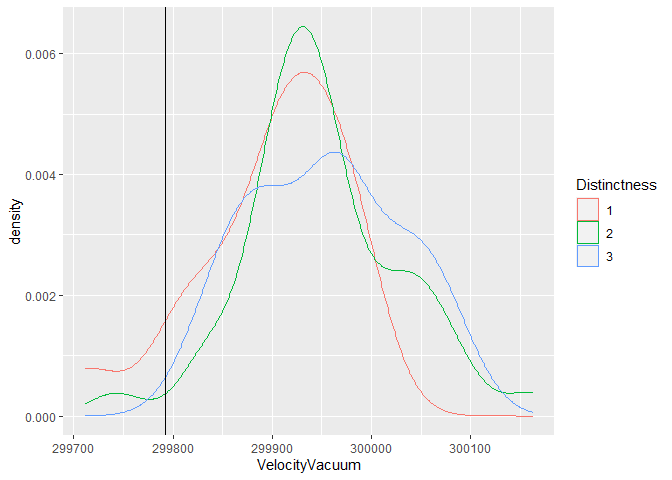
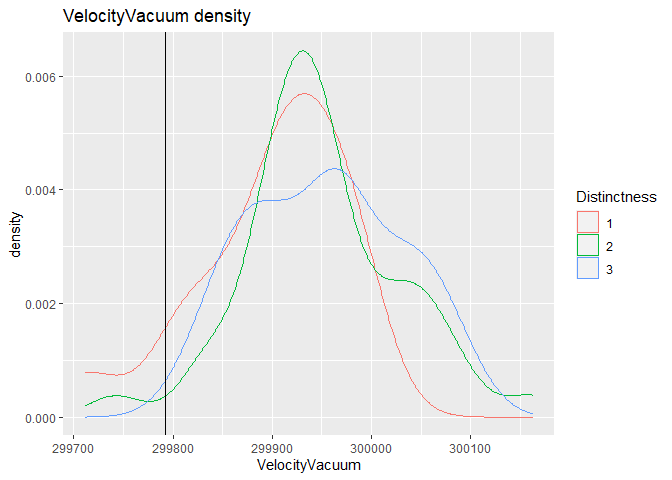
Update michelson with the correct files

diff --git a/c02-michelson-assignment.md b/c02-michelson-assignment.md
@@ -134,8 +134,7 @@ those of Michelson *exactly*; why might this be?
 df_q1 <-
   df_michelson %>%
   group_by(Distinctness) %>%
-  summarize(n = n(), MeanVelocity = mean(Velocity)) %>%
-  ungroup()
+  summarize(n = n(), MeanVelocity = mean(Velocity))
 ```
 
     ## `summarise()` ungrouping output (override with `.groups` argument)
@@ -151,6 +150,31 @@ df_q1 %>%
 | 3            | 46 |     299861.7 |
 | 2            | 39 |     299858.5 |
 | 1            | 15 |     299808.0 |
+
+``` r
+df_michelson %>%
+  ggplot() +
+  labs(title = "Velocity vs Distinctness", caption = "black line: LIGHTSPEED_MICHELSON; blue line: Michelson's adjusted lightspeed; green line: actual light speed in vacuum") +
+  ylab("Velocity (km/s)") +
+  geom_boxplot(mapping = aes(x = Distinctness, y = Velocity)) +
+  geom_hline(yintercept = LIGHTSPEED_MICHELSON) +
+  geom_hline(yintercept = 299852.4, color = "blue") +
+  geom_hline(yintercept = LIGHTSPEED_VACUUM, color="green")
+```
+
+![](c02-michelson-assignment_files/figure-gfm/q1-task-1.png)<!-- -->
+
+``` r
+df_michelson %>%
+  ggplot() +
+  ggtitle("All velocity measurements") +
+  labs(caption = "green line: actual light speed in vacuum") +
+  xlab("Velocity (km/s)") +
+  geom_boxplot(mapping = aes(x = Velocity, y = "all samples")) +
+  geom_vline(xintercept = LIGHTSPEED_VACUUM, color="green")
+```
+
+![](c02-michelson-assignment_files/figure-gfm/q1-task-2.png)<!-- -->
 
 **Observations**: Michelson’s observations in that table are rounded to
 the nearest 10. Their average cannot be more precise than the original
@@ -172,24 +196,7 @@ adjustment to `Velocity`. Assign this new dataframe to `df_q2`.
 df_q2 <-
   df_michelson %>%
   mutate(VelocityVacuum = Velocity + 92)
-
-df_q2
 ```
-
-    ## # A tibble: 100 x 5
-    ##    Date                Distinctness  Temp Velocity VelocityVacuum
-    ##    <dttm>              <fct>        <dbl>    <dbl>          <dbl>
-    ##  1 1879-06-05 00:00:00 3               76   299850         299942
-    ##  2 1879-06-07 00:00:00 2               72   299740         299832
-    ##  3 1879-06-07 00:00:00 2               72   299900         299992
-    ##  4 1879-06-07 00:00:00 2               72   300070         300162
-    ##  5 1879-06-07 00:00:00 2               72   299930         300022
-    ##  6 1879-06-07 00:00:00 2               72   299850         299942
-    ##  7 1879-06-09 00:00:00 3               83   299950         300042
-    ##  8 1879-06-09 00:00:00 3               83   299980         300072
-    ##  9 1879-06-09 00:00:00 3               83   299980         300072
-    ## 10 1879-06-09 00:00:00 3               83   299880         299972
-    ## # ... with 90 more rows
 
 As part of his study, Michelson assessed the various potential sources
 of error, and provided his best-guess for the error in his
@@ -219,16 +226,15 @@ uncertainty) greater or less than the true error?
 ``` r
 ## TODO: Compare Michelson's estimate and error against the true value
 ## Your code here!
-abs(LIGHTSPEED_VACUUM - LIGHTSPEED_MICHELSON)
+errs <- c(abs(LIGHTSPEED_VACUUM - LIGHTSPEED_MICHELSON), LIGHTSPEED_PM)
+names <- c("True error", "Michelson's estimated error")
+ggplot() +
+  ylab("Error (km/s)") +
+  xlab("") +
+  geom_col(mapping = aes(x = names, y = errs))
 ```
 
-    ## [1] 151.542
-
-``` r
-LIGHTSPEED_PM
-```
-
-    ## [1] 51
+![](c02-michelson-assignment_files/figure-gfm/q3-task-1.png)<!-- -->
 
 **Observations**: - Michelson’s uncertainty value was a third of the
 actual error.
@@ -239,16 +245,12 @@ there other patterns in the data that might help explain the difference
 between Michelson’s estimate and `LIGHTSPEED_VACUUM`?
 
 ``` r
-LIGHTSPEED_VACUUM
-```
-
-    ## [1] 299792.5
-
-``` r
+# VelocityVacuum distribution
 df_q2 %>%
   ggplot() +
-    geom_density(mapping = aes(x = VelocityVacuum, color = Distinctness)) +
-    geom_vline(aes(xintercept = LIGHTSPEED_VACUUM))
+  ggtitle("VelocityVacuum density") +
+  geom_density(mapping = aes(x = VelocityVacuum, color = Distinctness)) +
+  geom_vline(aes(xintercept = LIGHTSPEED_VACUUM))
 ```
 
 ![](c02-michelson-assignment_files/figure-gfm/unnamed-chunk-2-1.png)<!-- -->
@@ -256,23 +258,93 @@ df_q2 %>%
 ``` r
 df_q2 %>%
   ggplot() +
-    geom_violin(mapping = aes(x = Temp, y = Distinctness)) +
-    geom_boxplot(aes(x = Temp, y = Distinctness))
+  ggtitle("VelocityVacuum histogram") +
+  geom_histogram(aes(x = VelocityVacuum)) +
+  geom_vline(aes(xintercept = LIGHTSPEED_VACUUM))
 ```
+
+    ## `stat_bin()` using `bins = 30`. Pick better value with `binwidth`.
 
 ![](c02-michelson-assignment_files/figure-gfm/unnamed-chunk-2-2.png)<!-- -->
 
 ``` r
+# Distinctness vs Temp
 df_q2 %>%
   ggplot() +
-  geom_point(aes(x = Temp, y = VelocityVacuum)) +
+  ggtitle("Distinctness vs Temp") +
+  geom_boxplot(aes(x = Temp, y = Distinctness))
+```
+
+![](c02-michelson-assignment_files/figure-gfm/unnamed-chunk-2-3.png)<!-- -->
+
+``` r
+# VelocityVacuum vs Distinctness
+df_q2 %>%
+  ggplot() +
+  ggtitle("VelocityVacuum vs Distinctness") +
+  geom_boxplot(aes(x = VelocityVacuum, y = Distinctness)) +
+  geom_vline(aes(xintercept = LIGHTSPEED_VACUUM))
+```
+
+![](c02-michelson-assignment_files/figure-gfm/unnamed-chunk-2-4.png)<!-- -->
+
+``` r
+#VelocityVacuum vs Temp
+df_q2 %>%
+  ggplot() +
+  ggtitle("VelocityVacuum vs Temp") +
+  geom_point(aes(x = Temp, y = VelocityVacuum, color = Date)) +
   geom_smooth(aes(x = Temp, y = VelocityVacuum)) +
   geom_hline(aes(yintercept = LIGHTSPEED_VACUUM))
 ```
 
     ## `geom_smooth()` using method = 'loess' and formula 'y ~ x'
 
-![](c02-michelson-assignment_files/figure-gfm/unnamed-chunk-2-3.png)<!-- -->
+![](c02-michelson-assignment_files/figure-gfm/unnamed-chunk-2-5.png)<!-- -->
+
+``` r
+df_q2 %>%
+  ggplot() +
+  ggtitle("VelocityVacuum vs Temp") +
+  geom_point(aes(x = Temp, y = VelocityVacuum, color = Date)) +
+  geom_hline(aes(yintercept = LIGHTSPEED_VACUUM))
+```
+
+![](c02-michelson-assignment_files/figure-gfm/unnamed-chunk-2-6.png)<!-- -->
+
+``` r
+# VelocityVacuum vs Date
+df_q2 %>%
+  ggplot() +
+  ggtitle("VelocityVacuum vs Date") +
+  geom_point(aes(x = Date, y = VelocityVacuum, color = Temp)) +
+  geom_smooth(aes(x = Date, y = VelocityVacuum)) +
+  geom_hline(aes(yintercept = LIGHTSPEED_VACUUM))
+```
+
+    ## `geom_smooth()` using method = 'loess' and formula 'y ~ x'
+
+![](c02-michelson-assignment_files/figure-gfm/unnamed-chunk-2-7.png)<!-- -->
+
+``` r
+#Temp vs Date
+df_q2 %>%
+  ggplot() +
+  ggtitle("Temp vs Date") +
+  geom_point(mapping = aes(x = Date, y = Temp, color = VelocityVacuum))
+```
+
+![](c02-michelson-assignment_files/figure-gfm/unnamed-chunk-2-8.png)<!-- -->
+
+``` r
+df_q2 %>%
+  mutate(Error = VelocityVacuum - LIGHTSPEED_VACUUM) %>%
+  ggplot() +
+  ggtitle("Error vs Date") +
+  geom_point(mapping = aes(x = Date, y = Error, color = Distinctness))
+```
+
+![](c02-michelson-assignment_files/figure-gfm/unnamed-chunk-2-9.png)<!-- -->
 
 ## Bibliography
 
